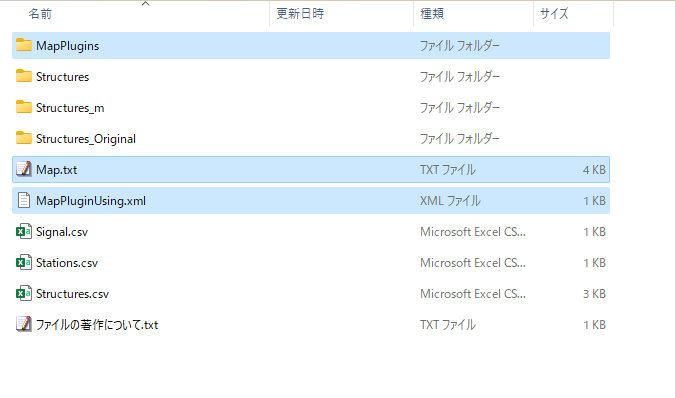
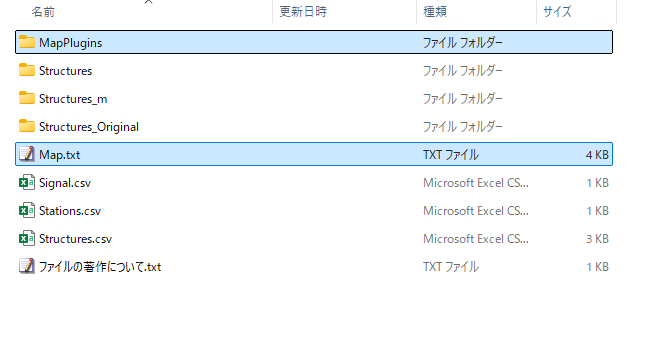
update: ミラープラグインの更新に対応

diff --git a/plugins/mirror/index.html b/plugins/mirror/index.html
@@ -9,7 +9,7 @@
     <meta name="author" content="automatic9045" />
     <meta property="og:site_name" content="ミラープラグイン - AtsEX - 岡オカ営業所" />
     <meta property="og:title" content="ミラープラグイン - AtsEX - 岡オカ営業所" />
-    <meta property="og:description" content="マップ上に、実際の景色が映るミラーを設置するプラグインです。AtsEXマッププラグインとして実装されています。" />
+    <meta property="og:description" content="マップ上に、実際の景色が映るミラーを設置するプラグインです。BveEXマッププラグインとして実装されています。" />
     <meta property="og:type" content="article" />
     <meta property="og:image" content="https://www.okaoka-depot.com/AtsEX.Docs/img/ogp.png" />
     <meta property="og:locale" content="ja_JP" />
@@ -43,7 +43,7 @@
             <h1>ミラープラグイン</h1>
             <p>
                 マップ上に、実際の景色が映るミラーを設置するプラグインです。<br />
-                <strong>AtsEXマッププラグイン</strong>として実装されています。
+                <strong>BveEXマッププラグイン</strong>として実装されています。
             </p>
         </section>
         <section>
@@ -58,17 +58,20 @@
             <section>
                 <h2>プラグインをデータに組み込む手順</h2>
                 <h3>1. プラグインをマップに配置する</h3>
-                <h4>1-1. プラグインリストファイルを配置する</h4>
+                <h4>1-1. プラグイン本体を配置する</h4>
                 <p>
-                    下のボタンよりダウンロードしたファイルを<strong>ゾーン識別子を削除した上で</strong>解凍し、マップファイル（Map.txtなど）に対する位置関係が次の画像のようになるように配置します。
+                    マップファイル（Map.txtなど）に対する位置関係が次の画像のようになるように、新しいフォルダ「MapPlugins」を作成します。
                 </p>
                 <p>
                     <img src="plugins/mirror/locating.png" />
                 </p>
-
-                <h4>1-2. マップファイルにプラグインリストを指定する</h4>
                 <p>
-                    マップファイルを開き、次の例のように冒頭へ <code>AtsEx::USEATSEX</code> ヘッダー（または <code>AtsEx::NOMPI</code> ヘッダーでも可）、<code>AtsEx::MapPluginUsing</code> ヘッダーを追記します。
+                    下のボタンよりダウンロードしたファイルを<strong>ゾーン識別子を削除した上で</strong>解凍し、作成したMapPluginsフォルダの中に配置します。
+                </p>
+
+                <h4>1-2. マップファイルにプラグインを指定する</h4>
+                <p>
+                    マップファイルを開き、次の例のように冒頭へ <code>BveEx.Plugin.LoadAssembly</code> 構文（または <code>BveEx.Plugin.Load</code> 構文でプラグインリストを組み込んでも可）を追記します。
                 </p>
                 <pre><code id="map-sample" class="language-csharp"></code></pre>
                 <script>includeById("plugins/mirror/map-sample.txt", "map-sample");</script>
@@ -82,13 +85,6 @@
                     <p>
                         ゾーン識別子を削除する方法については、<a href="download/installation-guide/other.html">手動でのパッケージの適用方法 - AtsEXインストールガイド</a>の「1-1. ゾーン識別子を削除する」をご参照ください。
                     </p>
-                </div>
-                <div class="note note-info">
-                    <h4>既にMapPluginUsing.xmlなどのAtsEXマッププラグインリストファイルが存在する場合</h4>
-                    <p>
-                        本プラグインに同梱のMapPluginUsing.xmlは使用せず、既存のプラグインリストファイルに以下のコードを追記してください。
-                    </p>
-                    <pre><code class="language-xml">&lt;Assembly Path="MapPlugins\Mirror.dll" /></code></pre>
                 </div>
 
                 <h3>2. ミラーとして使用するストラクチャーをマップ上に設置する</h3>
@@ -185,29 +181,13 @@
         <section>
             <h2>ライセンス</h2>
             <p>
-                本ソフトウェアは、<a href="https://github.com/automatic9045/AtsEx.Plugins.Mirror/blob/main/LICENSE.txt">The MIT License modified with Commons Clause v1.0</a>のもとで使用を許諾されています。<br />
+                本ソフトウェアは、<a href="https://github.com/automatic9045/BveEx.Plugins.Mirror/blob/main/LICENSE.md">PolyForm Noncommercial License 1.0.0</a>のもとで使用を許諾されています。<br />
                 このライセンスにおいて許可されない方法での使用を希望される場合は、個別対応となりますので、お問い合わせください。
-            </p>
-
-            <h3>ライセンスの要約</h3>
-            <div class="note note-warn">
-                <p>
-                    以下の要約は正確な表現ではありません。
-                    正式な文面はGitHub リポジトリの<a href="https://github.com/automatic9045/AtsEx.Plugins.Mirror/blob/main/LICENSE.txt">LICENSE.txt</a>を参照してください。
-                </p>
-            </div>
-            <p>
-                <ul>
-                    <li>原則として本ソフトウェアは自由に改変・使用することができます。</li>
-                    <li>ただし、本ソフトウェアを販売することはできません。</li>
-                    <li>また、本ソフトウェアを使った作品には、本ソフトウェアを使用している旨の著作権表示が必要です。</li>
-                    <li>本ソフトウェアを使用したことにより何かしらの損害を受けたとしても、作者は一切の責任を負わないものとします。</li>
-                </ul>
             </p>
 
             <h2>ダウンロード</h2>
             <p class="center">
-                <a class="button with-border white-when-hover" href="https://github.com/automatic9045/AtsEx.Plugins.Mirror/releases/">
+                <a class="button with-border white-when-hover" href="https://github.com/automatic9045/BveEx.Plugins.Mirror/releases/">
                     GitHubからダウンロード▶
                 </a>
             </p>

diff --git a/plugins/index.html b/plugins/index.html
@@ -60,7 +60,7 @@
             </a>
             <a class="card" href="plugins/mirror/">
                 <img class="card-image" src="plugins/card-images/mirror.png" />
-                <h3 class="atsex">ミラープラグイン</h3>
+                <h3 class="bveex">ミラープラグイン</h3>
                 <p>
                     マップ上に、実際の景色が映るミラーを設置するプラグインです。<br />
                     反射する景色の方向は設置位置に合わせて自動で計算される仕様です。通常のストラクチャーを設置するのとほぼ同じ要領で、簡単に導入することができます。

diff --git a/css/basic.css b/css/basic.css
@@ -643,7 +643,7 @@ img.icon-download {
 }
 
 .bveex::after {
-    content: "BveEX";
+    content: "BveEX対応";
     margin: 8px;
     padding: 0px 6px;
     border-radius: 4px;
